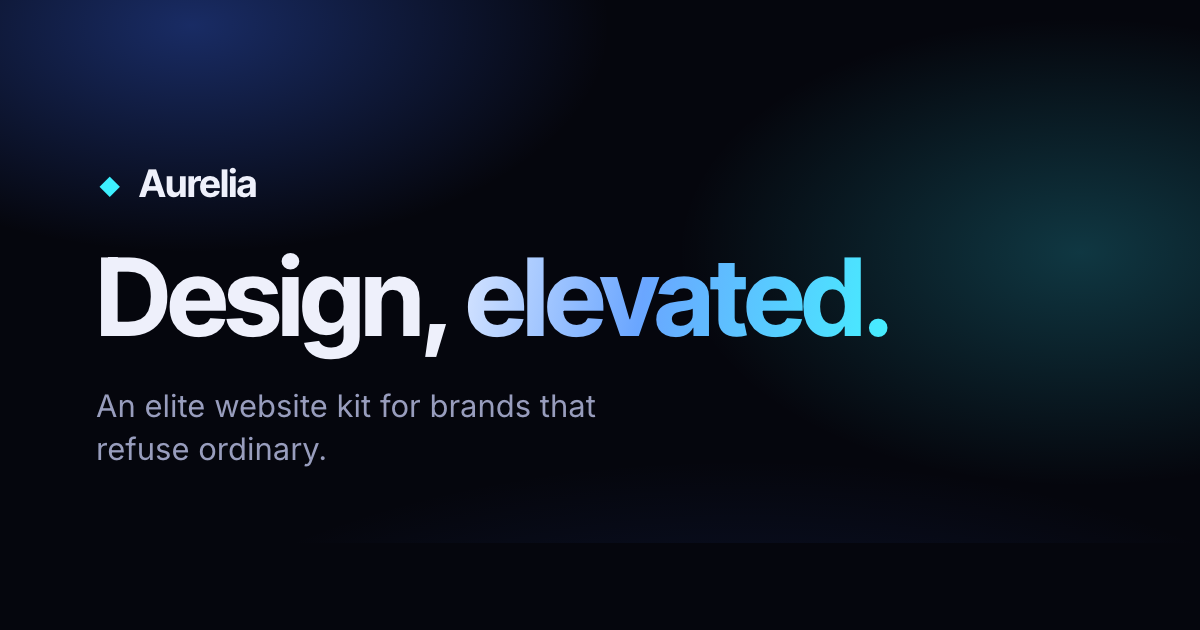
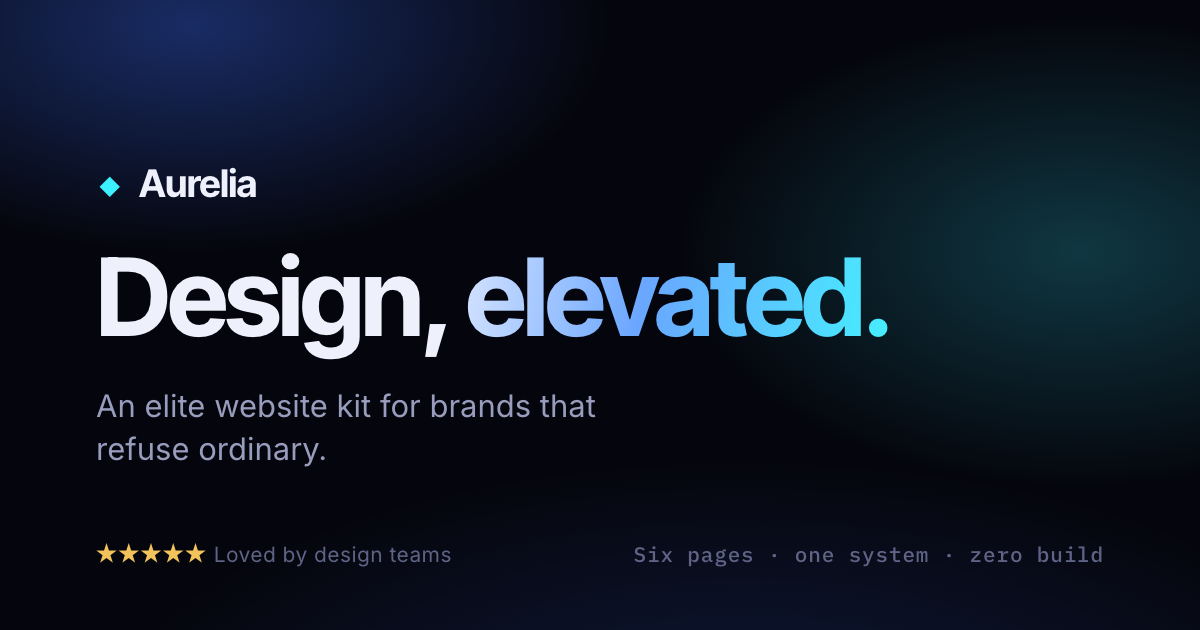
Refresh OG social-share image: premium, domain-neutral
Regenerate assets/og.png from an updated assets/og-card.html so the
link-preview card no longer bakes in the aurelia.studio placeholder
domain. Replaces the domain line with a gold five-star "Loved by
design teams" rating, and loads the IBM Plex Mono font the card's
footer tag already referenced. Rendered at 1200x630 with headless
Chrome. Now correct for both the live site and template buyers.

diff --git a/assets/og-card.html b/assets/og-card.html
@@ -5,7 +5,7 @@
 <meta charset="UTF-8" />
 <link rel="preconnect" href="https://fonts.googleapis.com" />
 <link rel="preconnect" href="https://fonts.gstatic.com" crossorigin />
-<link href="https://fonts.googleapis.com/css2?family=Inter+Tight:wght@600;700&family=Inter:wght@400;500&display=swap" rel="stylesheet" />
+<link href="https://fonts.googleapis.com/css2?family=Inter+Tight:wght@600;700&family=Inter:wght@400;500&family=IBM+Plex+Mono:wght@500&display=swap" rel="stylesheet" />
 <style>
   * { margin: 0; box-sizing: border-box; }
   html, body { width: 1200px; height: 630px; }
@@ -47,6 +47,8 @@
     font-size: 21px; color: #5f6486; letter-spacing: 0.02em;
   }
   .foot .tag { font-family: "IBM Plex Mono", monospace; letter-spacing: 0.04em; }
+  .foot .rating { display: flex; align-items: center; }
+  .foot .rating b { color: #f2c25b; font-weight: 400; letter-spacing: 0.06em; }
 </style>
 </head>
 <body>
@@ -54,7 +56,7 @@
   <h1>Design, <em>elevated.</em></h1>
   <p>An elite website kit for brands that refuse ordinary.</p>
   <div class="foot">
-    <span>aurelia.studio</span>
+    <span class="rating"><b>★★★★★</b> &nbsp;Loved by design teams</span>
     <span class="tag">Six pages · one system · zero build</span>
   </div>
 </body>
